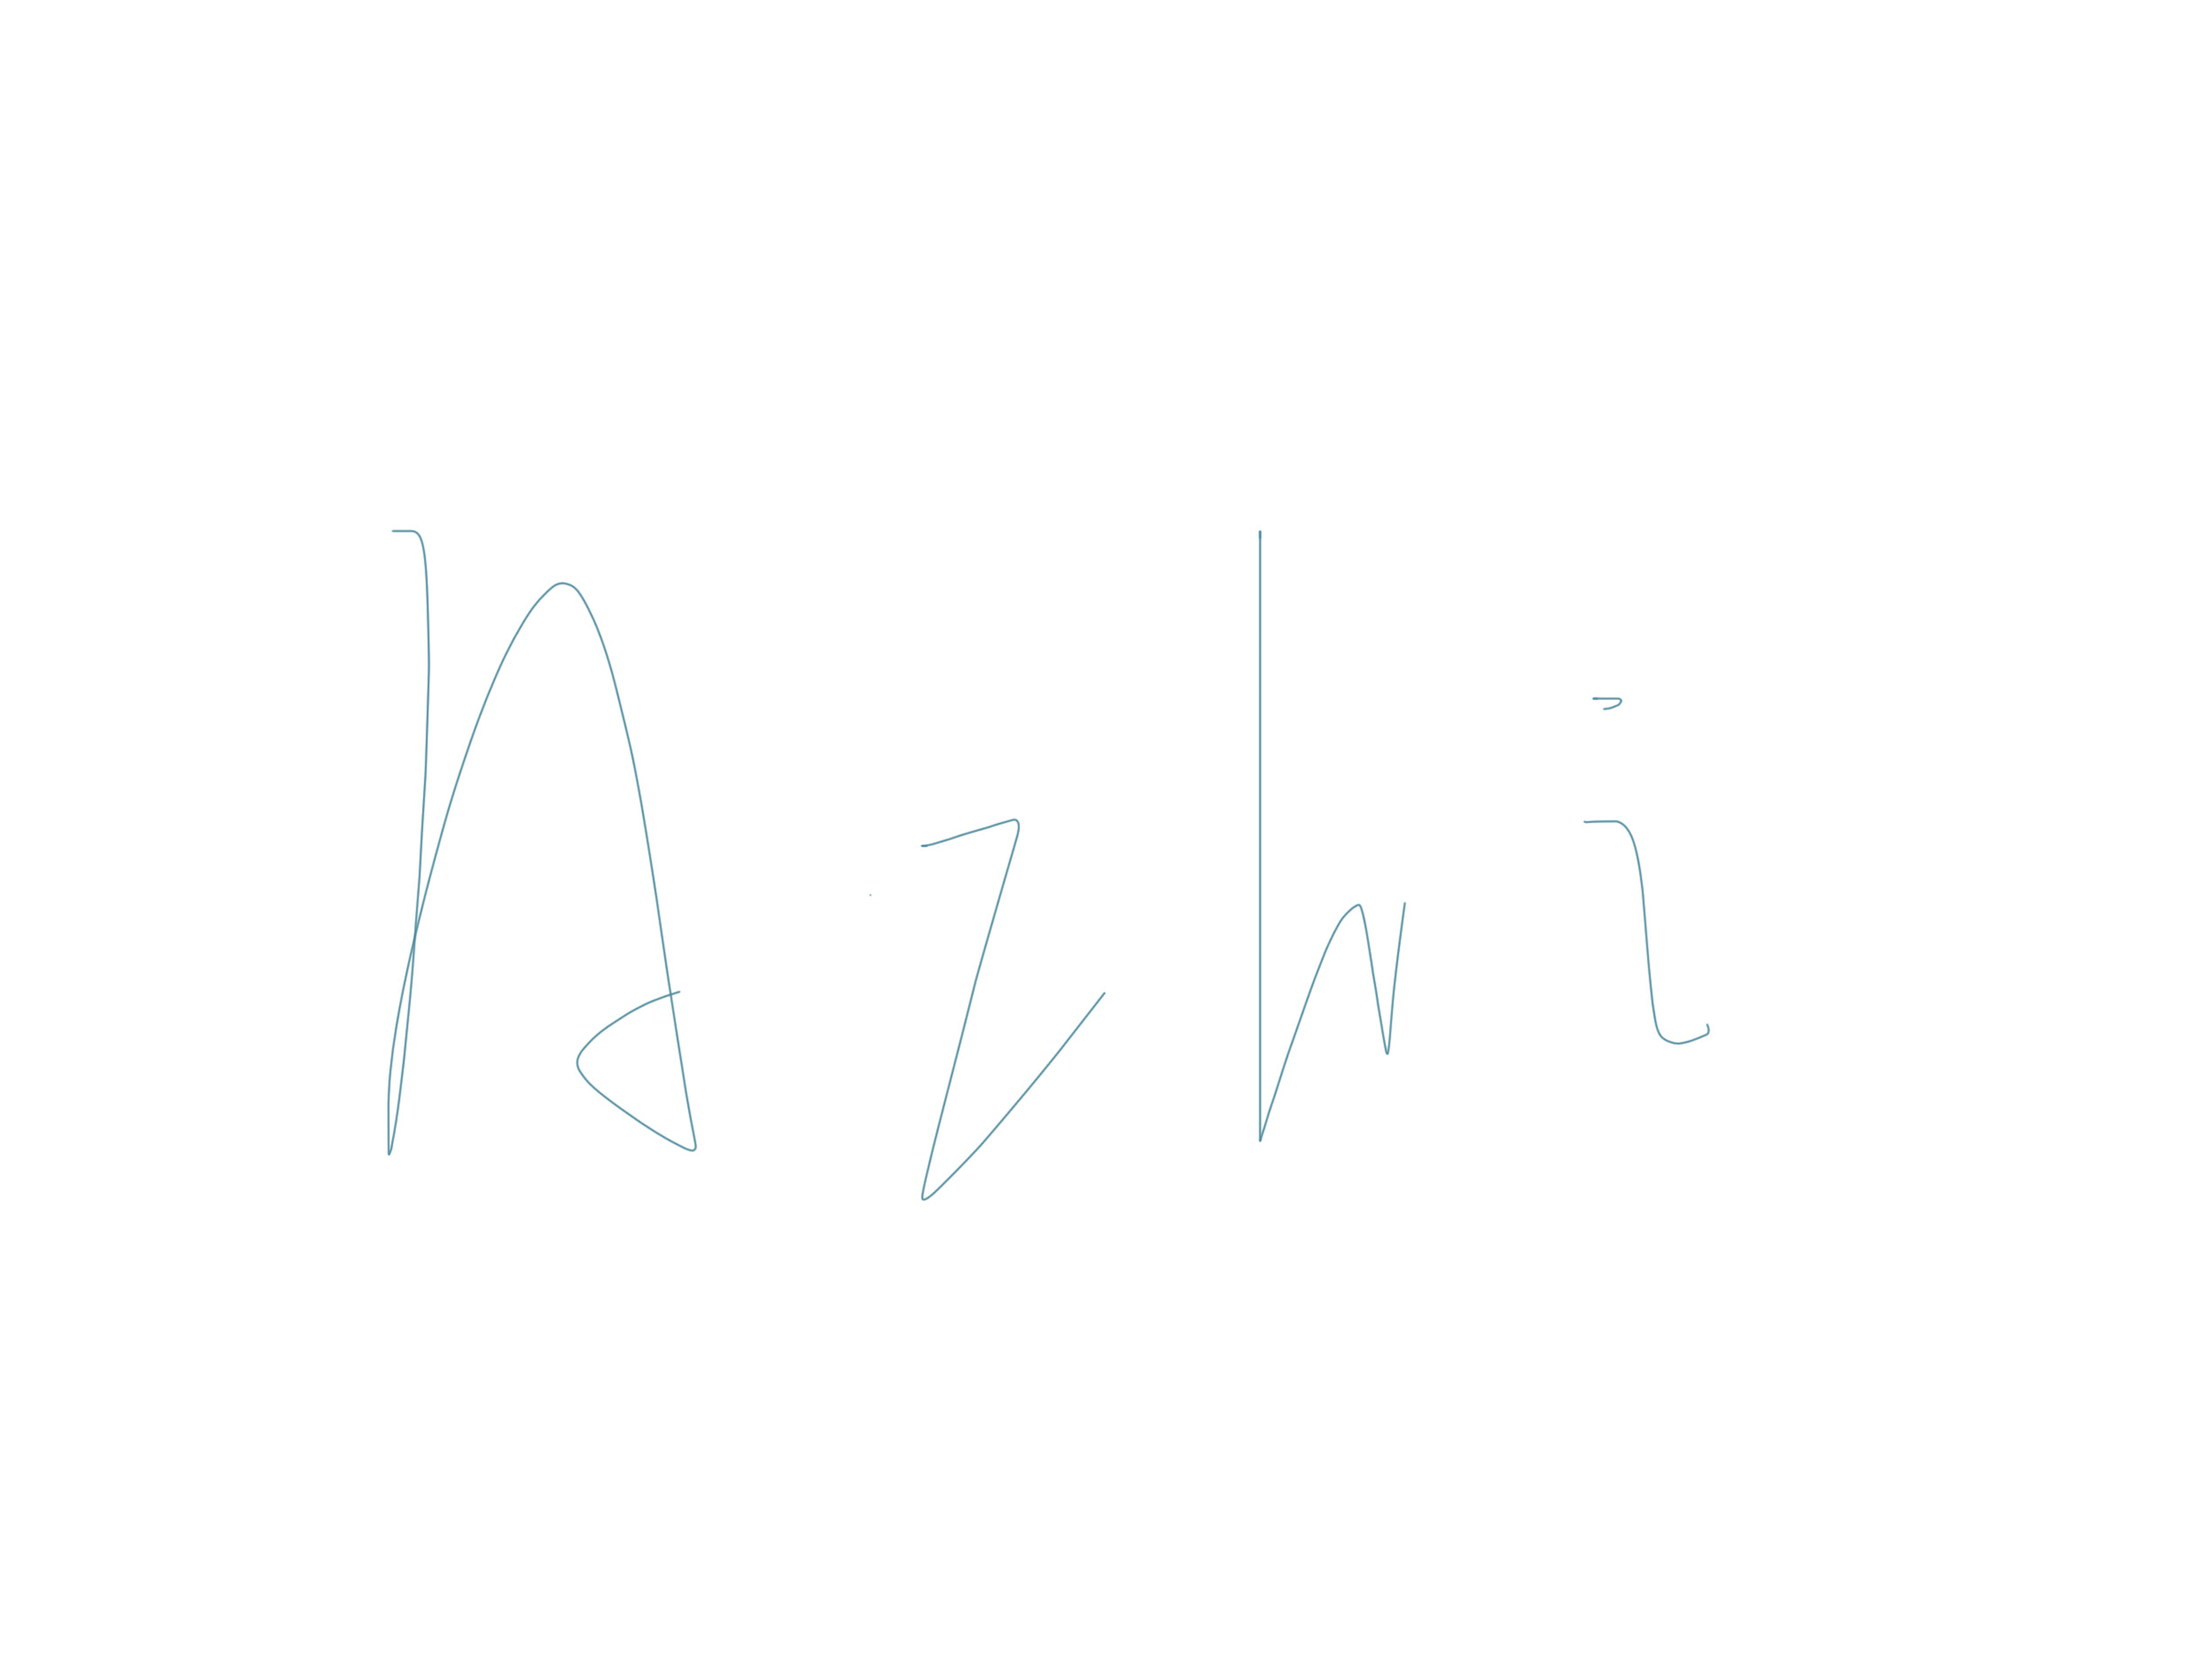
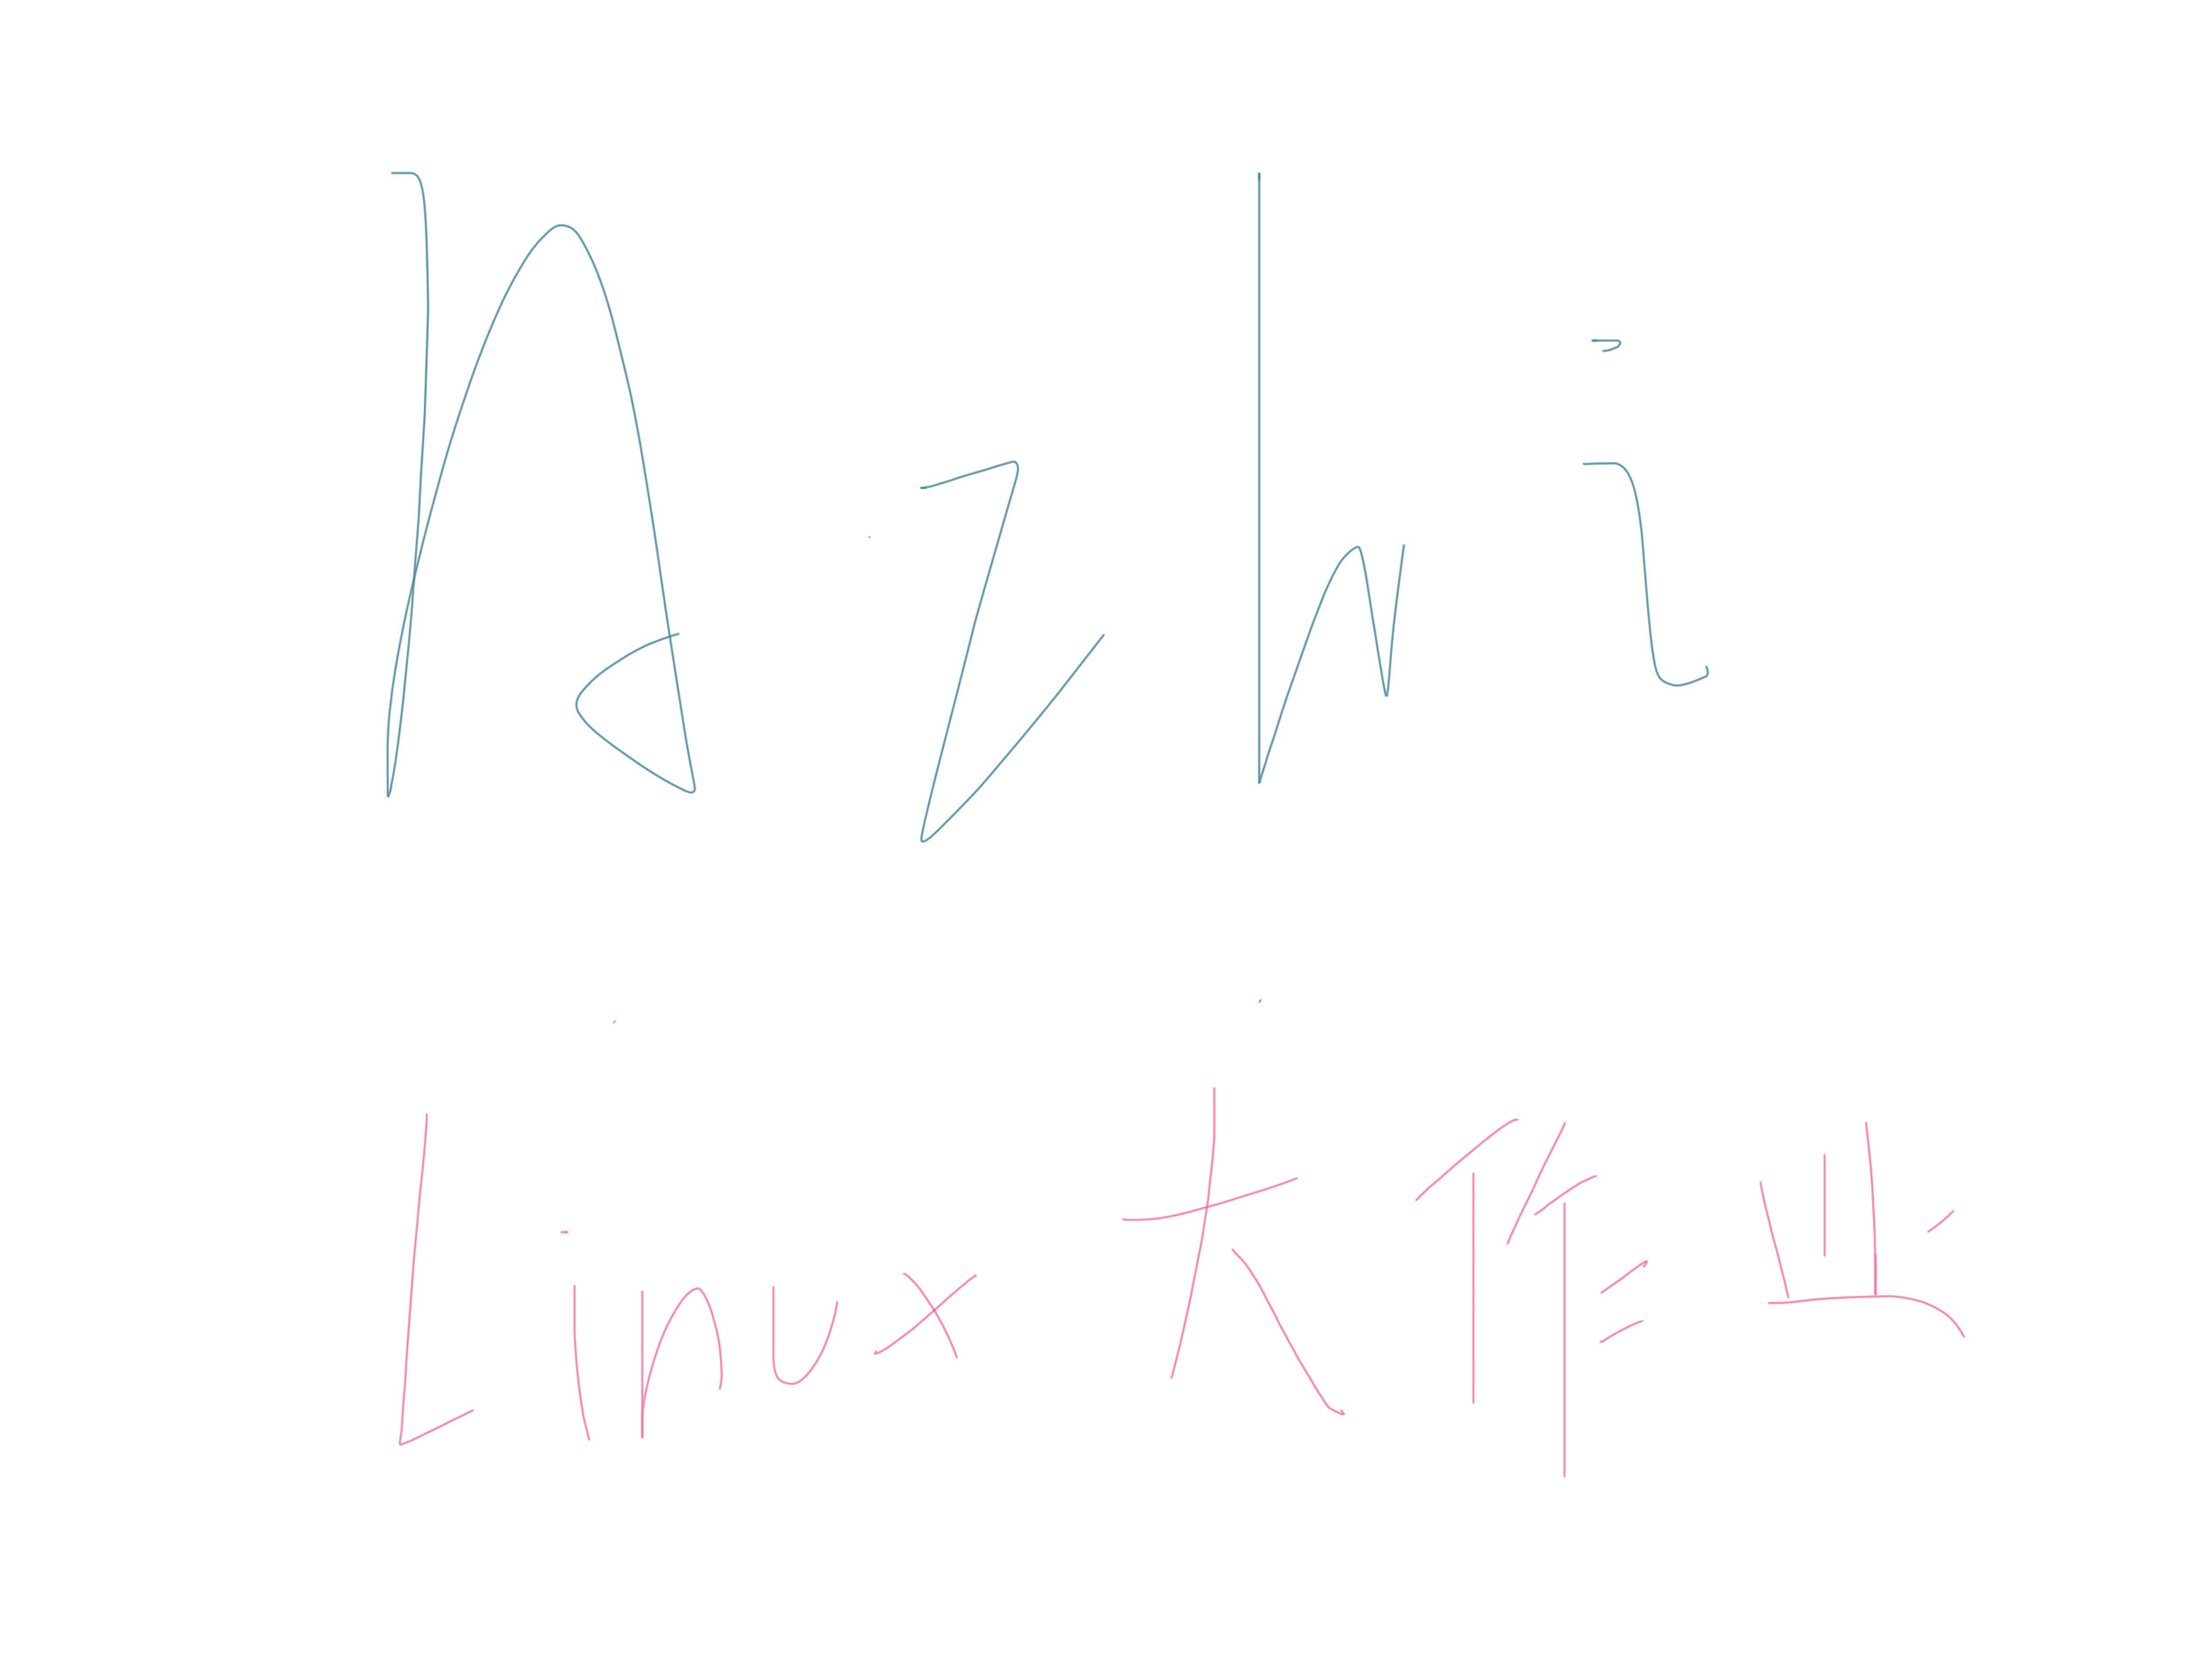
12.25rename

diff --git a/content/zh-CN/posts/wyuCourse/Linux大作业-磁盘清理工具.md b/content/zh-CN/posts/wyuCourse/Linux大作业-磁盘清理工具.md
@@ -1,0 +1,140 @@
++++
+
+author = "AzhiTakatoo"
+
+title = "wyu_Linux大作业（Azhi"
+
+date = "2020-12-25"
+
+description = "磁盘清理工具脚本"
+
+tags = ["markdown", "wyuCourse"]
+
+categories = ["personal"]
+
+images = ["img/2020/12/Azhi.jpg"]
+
+aliases = ["migrate-from-jekyl"]
+
++++
+
+<!-- ---
+
+author: AzhiTakatoo
+
+title: 磁盘清理工具
+
+date: 2020-12-25
+
+categories: ['大学课程']
+
+draft: false
+
+--- -->
+
+<!--more-->
+
+***
+
+Linux系统-容振邦老师-大作业设计-磁盘清理工具
+
+***
+
+系统设计：
+
+在系统中，首先程序根据用户输入的文件目录名与预留空间，读取到要清理的文件和判断磁盘的空间是否足够。如果磁盘空间大于预留空间，则不需要进行磁盘清理，程序停止；反之，则执行程序清理步骤。例如，现有目录text下文件test1.rar、test2.rar、test3.rar，其中test1.rar很久未被访问（未被访问时间：test3.rar<test2.rar<test1.rar），程序执行时，用户输入的要清理的文件目录text，程序会找出text目录下最长时间没有被访问的文件——test1.rar，接着在命令行中提示用户是否删除此文件。若用户输入“no”，则将文件test1.rar调出当前检索序列；若用户输入“yes”，则将此文件test1.rar移除至回收站，在此过程，用户所有操作都将记录在日志文件中；若输入错误，则系统会提示出错，请用户重新输入。之后程序会重复查找最长时间未被访问的文件的步骤，找到文件test2.rar，如此直至text目录下文件都被检索一遍或腾出足够的空间，程序结束。
+
+基本流程图：
+
+![cleanup流程图](https://tva1.sinaimg.cn/large/0081Kckwgy1gm00u0aifgj30pu0r9jsz.jpg)
+
+代码如下：
+
+```shell
+#!/bin/sh
+
+read -p "请输入需要清理的文件名称：" DirName
+read -p "请输入预留的空间大小（kb单位）" FreeSpaceThreshold
+DirCleanupList=(
+		"$DirName"
+	)
+
+echo $FreeSpaceDT
+
+FoundFiles=0
+NoChangeCounter=0
+
+arrayLen=${#DirCleanupList[*]}
+
+while true; do
+  FreeSpace=$(df /dev/sda1 --output=avail|tail -n 1)
+  FreeSpaceDT=$((FreeSpace - FreeSpaceThreshold))
+  echo "磁盘剩余空间：${FreeSpace}"
+  echo "需要腾出空间：${FreeSpaceThreshold}" 
+  if [ $FreeSpaceDT -lt 0 ]; then
+    echo "磁盘空间不足，需要对磁盘文件进行清理。"
+    for sDir in ${DirCleanupList[@]}; do
+     OldestFile=${sDir}/$(ls -t1 --file-type ${sDir}|grep -v './$'|tail -n 1)
+
+      #echo ${OldestFile} 
+      if [ "$OldestFile" != "$sDir/" ]
+      then
+	(( FoundFiles += 1 ))
+	echo "找到" ${FoundFiles} "个文件需要清理。"
+	read -p "最长时间没有访问的文件是${OldestFile},请问是否确定删除？(yes/no)" sel
+	if [ $sel = "yes" ]; then
+	   echo "成功清除${OldestFile}"
+	  mv ${OldestFile} ///dev/shm/recycle/
+	  echo "[$(date)]  将${OldestFile}从${DirName}移除至回收站recycle" >> ///cleanLog.txt
+
+	  if [ $(cat ///cleanLog.txt | wc -l) -ge 6 ]; then
+	  sed -i '1d' ///cleanLog.txt
+	  fi
+
+	elif [ $sel = "no" ]; then
+	  sed -i '1a AAAA' ${OldestFile}
+	  sed -i '2d' ${OldestFile}
+	  echo "将${OldestFile}剔除在检索列表外，进入下一轮文件检索。"
+	  echo "[$(date)]  将${OldestFile}从当轮检索列表移除。" >> ///cleanLog.txt
+
+	  if [ $(cat ///cleanLog.txt | wc -l) -ge 6 ]; then
+          sed -i '1d' ///cleanLog.txt
+          fi
+	else
+	  echo "输入错误，请重新输入。"
+	  continue 1
+        fi
+       else
+	echo "磁盘空间足够。"
+      fi
+      
+    done
+  else
+    break
+  fi
+
+  FreeSpaceAfter=$(df /dev/sda1 --output=avail|tail -n 1)
+  
+  if [ "$FoundFiles" -eq 0 ]; then
+    echo "没有更多文件需要清除了。"
+    break
+  fi
+  
+  FoundFiles=0
+  
+  #Test the freespace before & after if no change, increment the NoChangeCount - this is to avoid being stuck in an infinute loop
+  if [ $FreeSpace -eq $FreeSpaceAfter ]; then
+    (( NoChangeCounter += 1 ))
+  else
+    NoChangeCount=0
+  fi
+  
+  #If there were no changes in the last 1000 loops, exit
+  if [ $NoChangeCounter -gt 1000 ]; then
+    echo "Exiting due to no change in Free Space"
+    break;
+  fi
+  
+done
+```
+
